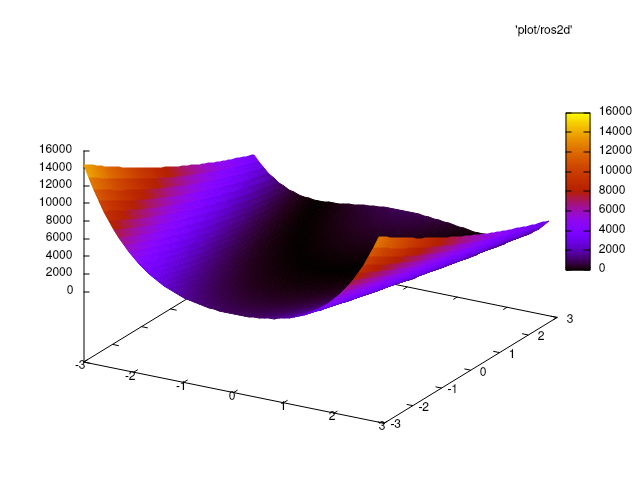
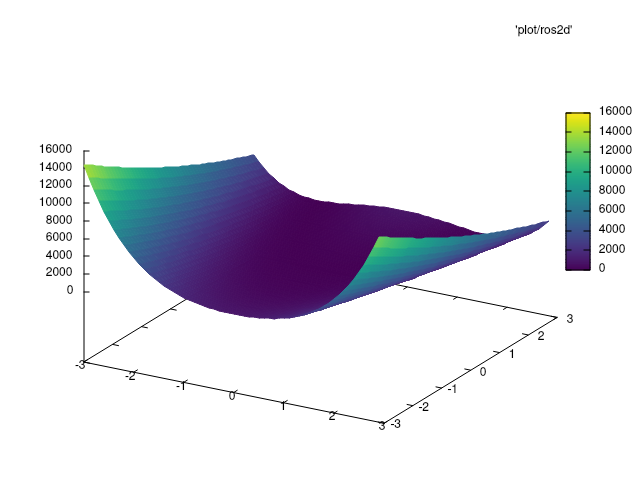
Add viridis color palette and makefile plotting

Changed region(s): [[0.125, 0.3125, 0.8438, 0.6875], [0.875, 0.2188, 0.9375, 0.5625]]

diff --git a/README.md b/README.md
@@ -6,4 +6,4 @@ This is an implementation of the BFGS algorithm for a very specific problem, wit
 
 ## Sanity checks
 
-To check function appearance, `plot()` to file, and `gnuplot -e "splot FILE with pm3d; pause -1"`
+To check function appearance, `plot()` to file, and `make plot file=FILE`
